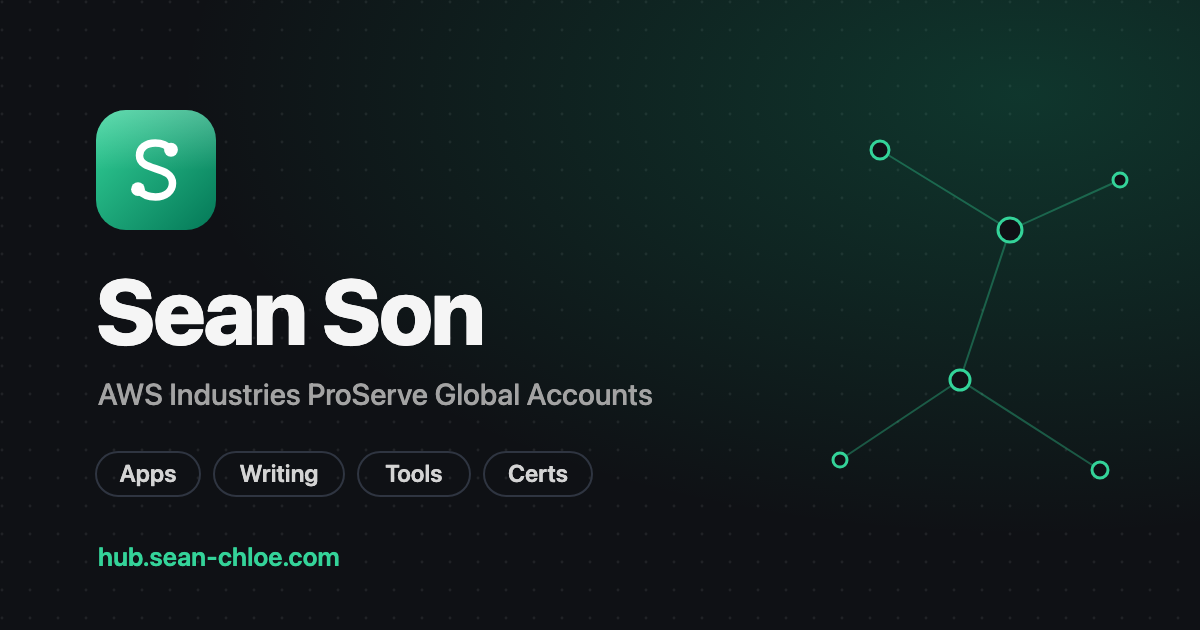
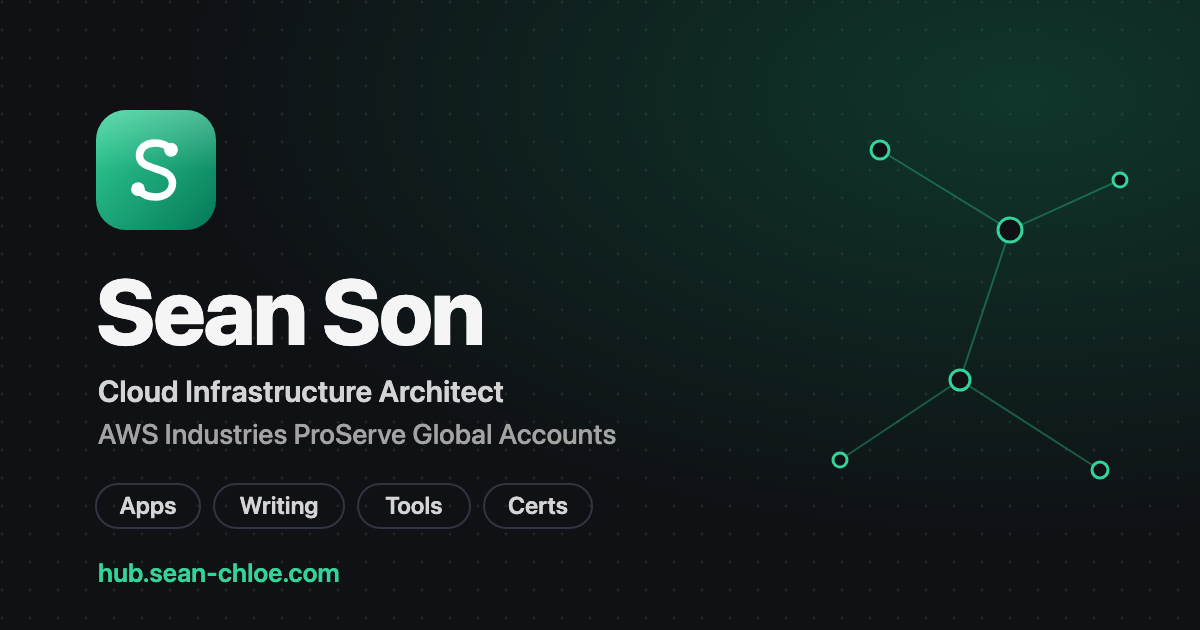
프로필: 직함 원복 — Cloud Infrastructure Architect · AWS Industries ProServe Global Accounts (og:image 동일 반영)

Changed region(s): [[0.0617, 0.6032, 0.555, 0.8444], [0.0617, 0.8746, 0.2775, 0.9349]]

diff --git a/src/data/site.ts b/src/data/site.ts
@@ -3,7 +3,7 @@
 
 export const profile = {
   name: 'Sean Son',
-  role: 'AWS Industries ProServe Global Accounts',
+  role: 'Cloud Infrastructure Architect · AWS Industries ProServe Global Accounts',
   // footer on every page: personal site, not affiliated with / endorsed by the employer
   disclaimer:
     '개인 프로젝트입니다. 이 사이트의 글·앱·도구는 개인 의견과 작업이며, 소속 회사(Amazon Web Services)의 공식 입장이나 서비스와 무관합니다.',
